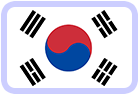
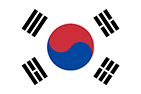
up

diff --git a/src/App.js b/src/App.js
@@ -1,9 +1,10 @@
 import './assets/sass/global.scss';
 import React,  { useEffect, useState } from 'react';
 import {
-  BrowserRouter as Router,
-  Route,
-  Routes
+	BrowserRouter as Router,
+	Outlet,
+	Route,
+	Routes,
 } from 'react-router-dom';
 import './App.css';
 import ScrollToTop from './helpers/scrollToTop';
@@ -20,6 +21,7 @@ function App() {
   const [isAuthenticated, setAuthenticated] = useState(false);
   const pathname = window.location.pathname;
 	const [isExpanded, setExpanded] = useState(0);
+
 	const setFooterDefaultState = () => {
 		setExpanded(0)
 	}
@@ -71,23 +73,10 @@ function App() {
 							}
 						/>
 					</Routes>
-					<Routes>
-						<Route
-							path="/"
-							element={
-								<>
-									<Authentication
-										isAuthenticated={isAuthenticated}
-										setAuthenticated={setAuthenticated}
-									/>
-								</>
-							}
-						></Route>
-					</Routes>
 					{/* my page */}
 					<Routes>
 						<Route
-							path="/mypage/*"
+							path="/mypage"
 							element={
 								<MyPage
 									isAuthenticated={isAuthenticated}
@@ -110,6 +99,20 @@ function App() {
 							}
 						></Route>
 					</Routes>
+					<Routes>
+						<Route
+							path="/"
+							element={
+								<>
+									<Authentication
+										isAuthenticated={isAuthenticated}
+										setAuthenticated={setAuthenticated}
+									/>
+								</>
+							}
+						></Route>
+					</Routes>
+					<Outlet />
 				</Router>
 			</div>
 		</>

diff --git a/src/components/Shared/Collapse/_collapse.scss b/src/components/Shared/Collapse/_collapse.scss
@@ -12,7 +12,7 @@ button.collapse {
     justify-content: space-between;
     align-items: center;
     height: 12.438rem;
-    padding-top: 0.313rem;
+    // padding-top: 0.313rem;
 
   }
 
@@ -23,11 +23,17 @@ button.collapse {
     letter-spacing: -0.025em;
     margin: 0;
     margin-left: -0.25rem;
+    padding-top: 0.313rem;
   }
 
-  .collapse__icon img {
+  .collapse__icon {
     width: 3.875rem;
-    margin-left: -0.063rem;
+    height: 3.875rem;
+    img {
+      width: 3.875rem;
+      height: 3.875rem;
+      margin-left: -0.063rem;
+    }
   }
 
   .collapse__body {
@@ -57,7 +63,7 @@ button.collapse {
       margin-top: -0.188rem;
     }
     .collapse__icon img {
-      margin-top: -0.188rem;
+      //margin-top: -0.188rem;
     }
   }
     &:nth-of-type(5) {
@@ -66,7 +72,7 @@ button.collapse {
       }
   
       .collapse__icon img {
-        margin-top: -0.375rem;
+       // margin-top: -0.375rem;
       }
     }
     &:nth-of-type(6) {
@@ -75,17 +81,13 @@ button.collapse {
       }
 
       .collapse__icon img {
-        margin-top: -0.563rem;
+        //margin-top: -0.563rem;
       }
     }
 }
 
 .collapse.expanded {
   border-top-width: 0;
-  .collapse__header {
-    //height: 10.813rem;
-    //margin-top: 1.438rem;
-  }
   .collapse__body {
     margin-top: -2.125rem;
     margin-bottom: 3.25rem;

diff --git a/src/pages/MainPage.jsx b/src/pages/MainPage.jsx
@@ -1,4 +1,4 @@
-import React, { useState, useEffect } from "react";
+import React, { useState, useEffect, useCallback } from "react";
 import NoticeBanner from "../components/MainPage/NoticeBanner";
 import Slider from "../components/MainPage/Slider";
 import Jackpot from "../components/MainPage/Jackpot";
@@ -23,6 +23,10 @@ function MainPage({ setFooterDefaultState }) {
   const [selectedTab, setSelectedTab] = useState(0)
   // const [selectedSection, setSelectedSection] = useState(null)
 
+  const setFooterDefault = useCallback(() => {
+    setFooterDefaultState()
+  }, []);// eslint-disable-line react-hooks/exhaustive-deps
+
   useEffect(() => {
     // if (selectedSection) {
     //   const section = document.getElementById(selectedSection);
@@ -30,11 +34,14 @@ function MainPage({ setFooterDefaultState }) {
     //   window.scrollTo({ top: top, behavior: 'smooth' });
     // } else {
       window.scrollTo(0, 0);
-      setFooterDefaultState()
+      setFooterDefault()
     //}
    
-  }, [selectedTab, setFooterDefaultState])
-  
+  }, [selectedTab])// eslint-disable-line react-hooks/exhaustive-deps
+
+ 
+
+
   return (
     <>
       <NoticeBanner />

diff --git a/src/components/MyPage/_myPage.scss b/src/components/MyPage/_myPage.scss
@@ -332,14 +332,22 @@
     }
   }
   .country-flag {
+    width: 8.563rem;
+    height: 5.813rem;
+    background-color: #ccceff;
+    padding: 0.375rem;
+    border-radius: 0.5rem;
+    margin-left: -0.25rem;
+    margin-top: -0.125rem;
     @media screen and (max-width: 700px) {
       display: flex;
       align-items: center;
     }
     img {
-      width: 8.688rem;
-      margin-left: -0.313rem;
-      margin-top: -0.125rem;
+      width: 7.813rem;
+      height: 5.063rem;
+      border-radius: 0.375rem;
+     
     }
   }
  
@@ -398,9 +406,9 @@
 
 
 
-.badge--l {
-  min-width: 4.125rem;
-  height: 4.125rem;
+.badge--md {
+  min-width: 4rem;
+  height: 4rem;
   span {
     font-size: 2.813rem !important;
     margin-top: -0.063rem;
@@ -428,10 +436,14 @@
       height: 7.8rem;
       display: flex;
       align-items: center;
-      padding-left: 2.75rem !important;
+      padding-left: 2.875rem !important;
       >div {
         display: flex;
         align-items: center;
+      }
+      img {
+        width: 7.813rem;
+        height: 5.188rem;
       }
       label {
         width: 100%;

diff --git a/src/components/MyPage/ProfileInfo.jsx b/src/components/MyPage/ProfileInfo.jsx
@@ -18,7 +18,7 @@ import ArrowDown from "../../assets/images/down-arrow.png";
 import DropDownControls from "../../components/Shared/DropDownControls";
 import CountryDropDown from '../../components/Shared/CountryDropDown';
 import KoreaFlag from "../../assets/images/korea-flag.png";
-import UKflag from '../../assets/second-flag.png'
+import UKflag from '../../assets/images/UK_flag.png'
 
 import { useNavigate } from "react-router-dom";
 const ProfileInfo = () => {
@@ -84,7 +84,7 @@ const ProfileInfo = () => {
               <button>
                 <div className='button-img' >
                   <img src={Button3} alt="ProfileImg" />
-                  <span className="badge badge--red badge--l">
+                  <span className="badge badge--red badge--md">
                     <span>5</span>
                   </span>
                 </div>

diff --git a/src/components/Shared/CountryDropDown/index.jsx b/src/components/Shared/CountryDropDown/index.jsx
@@ -26,7 +26,7 @@ const CountryDropDown = ({ setCountry, country, isBig }) => {
                     }
                 }>
                 <div>
-                    <img className="" src={item.text === "KR" ? isBig ? Koreaflag2 : Koreaflag : isBig ? UKflag2 : UKflag} alt="flag" style={{ width: isBig ? '7.75rem' : '5.625rem' }}></img>
+                    <img className="" src={item.text === "KR" ? isBig ? Koreaflag2 : Koreaflag : isBig ? UKflag2 : UKflag} alt="flag"></img>
                 </div>
                 <label style={{ fontSize: isBig ? '3rem' : '2.4rem', color: selectedTab === item.id ? '#fff' : 'rgb(102, 102, 102)', fontFamily: isBig ? 'SpoqaHanSansNeoBold' : 'SpoqaHanSansNeoMedium'}} className={` font-spoqaBold cursor-pointer`}>{item.text}</label>
                 

diff --git a/src/components/MyPage/Header.jsx b/src/components/MyPage/Header.jsx
@@ -9,7 +9,7 @@ const ProfileHeader = () => {
     <div className='profile-header'>
       <p>마이인포</p>
       <button
-        onClick={() => navigate("/main")}>
+        onClick={() => window.location.pathname !== '/main' ? navigate("/main") : navigate("/")}>
         <img src={Close} alt="right" className="close" />
       </button>
       
